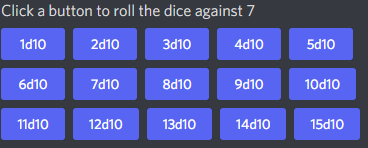
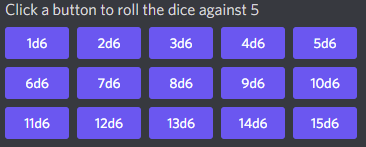
add shadowrun glitch

diff --git a/src/main/java/de/janno/discord/command/CountSuccessesCommand.java b/src/main/java/de/janno/discord/command/CountSuccessesCommand.java
@@ -3,6 +3,7 @@ package de.janno.discord.command;
 import com.google.common.collect.ImmutableList;
 import de.janno.discord.dice.DiceResult;
 import de.janno.discord.dice.DiceUtils;
+import discord4j.core.event.domain.interaction.ComponentInteractionEvent;
 import discord4j.core.object.command.ApplicationCommandInteractionOption;
 import discord4j.core.object.command.ApplicationCommandInteractionOptionValue;
 import discord4j.core.object.command.ApplicationCommandOption;
@@ -10,10 +11,14 @@ import discord4j.core.object.component.ActionRow;
 import discord4j.core.object.component.Button;
 import discord4j.core.object.component.LayoutComponent;
 import discord4j.core.spec.EmbedCreateSpec;
+import discord4j.discordjson.json.ApplicationCommandOptionChoiceData;
 import discord4j.discordjson.json.ApplicationCommandOptionData;
 import lombok.extern.slf4j.Slf4j;
 
 import java.util.List;
+import java.util.stream.Collectors;
+
+import static de.janno.discord.dice.DiceUtils.*;
 
 
 @Slf4j
@@ -22,7 +27,10 @@ public class CountSuccessesCommand extends AbstractCommand {
     private static final String COMMAND_NAME = "count_successes";
     private static final String ACTION_SIDE_OPTION = "dice_sides";
     private static final String ACTION_TARGET_OPTION = "target_number";
+    private static final String ACTION_GLITCH_OPTION = "glitch";
     private static final int MAX_NUMBER_SIDES_OR_TARGET_NUMBER = 1000;
+    private static final String GLITCH_OPTION_HALF_ONES = "half_dice_one";
+    private static final String GLITCH_NO_OPTION = "no_glitch";
 
     public CountSuccessesCommand() {
         super(new ActiveButtonsCache(COMMAND_NAME));
@@ -30,6 +38,29 @@ public class CountSuccessesCommand extends AbstractCommand {
 
     private static String createButtonLabel(String value, List<String> config) {
         return String.format("%sd%s", value, config.get(0));
+    }
+
+    public static String markSuccessesAndGlitches(List<Integer> diceResults, int target, boolean markOnes) {
+        return "[" + diceResults.stream()
+                .map(i -> {
+                    if (i >= target) {
+                        return makeBold(i);
+                    } else if (i == 1 && markOnes) {
+                        return makeBold(i);
+                    }
+                    return i + "";
+                }).collect(Collectors.joining(",")) + "]";
+    }
+
+    @Override
+    protected List<String> getConfigFromEvent(ComponentInteractionEvent event) {
+        List<String> config = super.getConfigFromEvent(event);
+
+        //handling legacy buttons
+        if (config.size() < 3) {
+            return ImmutableList.<String>builder().addAll(config).add(GLITCH_NO_OPTION).build();
+        }
+        return config;
     }
 
     @Override
@@ -69,6 +100,16 @@ public class CountSuccessesCommand extends AbstractCommand {
                         .type(ApplicationCommandOption.Type.INTEGER.getValue())
                         .minValue(0d)
                         .maxValue((double) MAX_NUMBER_SIDES_OR_TARGET_NUMBER)
+                        .build(),
+                ApplicationCommandOptionData.builder()
+                        .name(ACTION_GLITCH_OPTION)
+                        .required(false)
+                        .description("Glitch option")
+                        .type(ApplicationCommandOption.Type.STRING.getValue())
+                        .addChoice(ApplicationCommandOptionChoiceData.builder()
+                                .name(GLITCH_OPTION_HALF_ONES)
+                                .value(GLITCH_OPTION_HALF_ONES)
+                                .build())
                         .build());
     }
 
@@ -77,11 +118,17 @@ public class CountSuccessesCommand extends AbstractCommand {
         int numberOfDice = Integer.parseInt(buttonValue);
         int sidesOfDie = Integer.parseInt(config.get(0));
         int targetNumber = Integer.parseInt(config.get(1));
-        List<Integer> rollResult = DiceUtils.rollDiceOfType(numberOfDice, sidesOfDie);
+        String glitchOption = config.get(2);
+
+        List<Integer> rollResult = DiceUtils.rollDiceOfType(numberOfDice, sidesOfDie)
+                .stream().sorted().collect(Collectors.toList());
         int numberOf6s = DiceUtils.numberOfDiceResultsGreaterEqual(rollResult, targetNumber);
-        String details = "Target: " + targetNumber + " = " + DiceUtils.makeGreaterEqualTargetValuesBold(rollResult, targetNumber);
-        String title = String.format("%dd%d = %d", numberOfDice, sidesOfDie, numberOf6s);
-        log.info(String.format("%s:%s -> %s: %s", getName(), config, title, details.replace("**", "")));
+
+        boolean isGlitch = GLITCH_OPTION_HALF_ONES.equals(glitchOption) && DiceUtils.numberOfDiceResultsEqual(rollResult, 1) > (numberOfDice / 2);
+        String details = "Target: " + targetNumber + " = " + markSuccessesAndGlitches(rollResult, targetNumber, isGlitch);
+        String glitch = isGlitch ? " - Glitch!" : "";
+        String title = String.format("%dd%d = %d%s", numberOfDice, sidesOfDie, numberOf6s, glitch);
+        log.info(String.format("%s:%s -> %s: %s", getName(), config, title, details.replace("*", "")));
         return new DiceResult(title, details);
     }
 
@@ -104,7 +151,12 @@ public class CountSuccessesCommand extends AbstractCommand {
                 .map(l -> Math.min(l, MAX_NUMBER_SIDES_OR_TARGET_NUMBER))
                 .map(Object::toString)
                 .orElse("6");
-        return ImmutableList.of(sideValue, targetValue);
+        String glitchOption = options.getOption(ACTION_GLITCH_OPTION)
+                .flatMap(ApplicationCommandInteractionOption::getValue)
+                .map(ApplicationCommandInteractionOptionValue::asString)
+                .orElse(GLITCH_NO_OPTION);
+
+        return ImmutableList.of(sideValue, targetValue, glitchOption);
     }
 
     @Override

diff --git a/src/main/java/de/janno/discord/dice/DiceUtils.java b/src/main/java/de/janno/discord/dice/DiceUtils.java
@@ -32,6 +32,12 @@ public class DiceUtils {
                 .count();
     }
 
+    public static int numberOfDiceResultsEqual(List<Integer> results, int target) {
+        return (int) results.stream()
+                .filter(i -> i == target)
+                .count();
+    }
+
     public static String convertFateNumberToString(List<Integer> results) {
         return "[" + results.stream().map(i -> {
             if (i < 0) {
@@ -48,16 +54,6 @@ public class DiceUtils {
         return results.stream().mapToInt(i -> i).sum();
     }
 
-    public static String makeGreaterEqualTargetValuesBold(List<Integer> diceResults, int target) {
-        return "[" + diceResults.stream()
-                .map(i -> {
-                    if (i >= target) {
-                        return makeBold(i);
-                    }
-                    return i + "";
-                }).collect(Collectors.joining(",")) + "]";
-    }
-
 
     public static String makeBold(int i) {
         return "**" + i + "**";
@@ -67,4 +63,15 @@ public class DiceUtils {
         return "__**" + i + "**__";
     }
 
+    public static String makeUnderline(int i) {
+        return "__" + i + "__";
+    }
+
+    public static String makeItalics(int i) {
+        return "*" + i + "*";
+    }
+
+    public static String makeBoldItalics(int i) {
+        return "***" + i + "***";
+    }
 }

diff --git a/README.md b/README.md
@@ -60,15 +60,18 @@ see https://github.com/diceroll-dev/dice-parser for more details.
 
 ## Count success in a pool
 
-Use the slash command: '/count_successes start'. You need to provide the sides of the dice and the target number as
-parameter. For example '/count_successes start dice_sides:10 target_number:7' creates 15 buttons for 10 sided dice that
-roll against the target of 7. By clicking on a button a number of dice will be rolled and the count of the dice with
-results equal or approve the target number returned. This is a system that can be used for example for the new Word of
-Darkness (sides:10, target 7) or Shadowrun (sides: 6, target 4).
+Use the slash command: '/count_successes start'. You need to provide the sides of the dice, the target number and
+optional a glitch system as parameter. For example '/count_successes start dice_sides:10 target_number:7' creates 15
+buttons for 10 sided dice that roll against the target of 7. By clicking on a button a number of dice will be rolled and
+the count of the dice with results equal or approve the target number returned. The optional configuration half_dice_one
+will mark the result as glitch if more than half of the dice show 1. The default is that no glitch system will be used.
 
-![count_success_buttons.png](count_success_buttons.png)
+This is a system that can be used for example for the new Word of Darkness (/count_successes start dice_sides:10
+target_number:7) or Shadowrun (/count_successes start dice_sides:6 target_number:5 glitch:half_dice_one).
 
-![count_success_result.png](count_success_result.png)
+![img.png](count_success_buttons.png)
+
+![img.png](count_success_result.png)
 
 ## Fate
 
